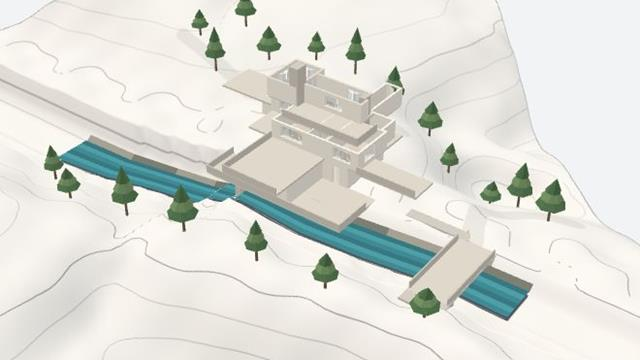
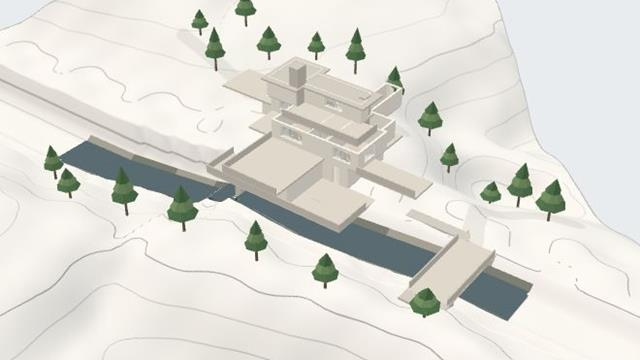
Add Fallingwater study roof and update example cover

diff --git a/mvp/index.html b/mvp/index.html
@@ -45,7 +45,7 @@
   </div>
 </header>
 <main id="app" tabindex="-1"></main>
-<script type="importmap">{"imports":{"./js/furn3d.js":"./js/furn3d.js?v=entourage-20261102-1","../furniture/models.js?v=furniture-detail-20261027-1":"../furniture/models.js?v=entourage-20261102-1","../furniture/geom.js?v=furniture-detail-20261027-1":"../furniture/geom.js?v=entourage-20261102-1","./js/fallingwater-dashboard.js":"./js/fallingwater-dashboard.js?v=case-terrain-20261103-2","./js/fallingwater-case.js":"./js/fallingwater-case.js?v=case-terrain-20261103-2","./js/fallingwater-results.js":"./js/fallingwater-results.js?v=case-terrain-20261103-2","./js/fallingwater-landscape.js":"./js/fallingwater-landscape.js?v=case-terrain-20261103-2","./js/fallingwater-dem.js":"./js/fallingwater-dem.js?v=case-terrain-20261103-2","./js/fallingwater-details.js":"./js/fallingwater-details.js?v=case-terrain-20261103-2","./js/usgs-terrain.js":"./js/usgs-terrain.js?v=case-terrain-20261103-2","./js/pages/projects-home.js":"./js/pages/projects-home.js?v=water-planning-20261103-1","./js/onboarding.js":"./js/onboarding.js?v=cmp-20261101-1","./js/pages/project.js":"./js/pages/project.js?v=cmp-20261101-1","./js/project-climate.js":"./js/project-climate.js?v=handoff-location-20261029-1","./js/pages/project-settings.js":"./js/pages/project-settings.js?v=handoff-20261028-1","./js/pages/project-map.js":"./js/pages/project-map.js?v=single-world-20261102-1","./js/pages/new-site.js":"./js/pages/new-site.js?v=epw-connected-20261027-3","./js/store.js":"./js/store.js?v=master-models-snow-20261031-3","./js/data.js":"./js/data.js?v=master-models-snow-20261031-3","./js/export3d.js":"./js/export3d.js?v=import-feedback-20261027-1","./js/viewport.js":"./js/viewport.js?v=light-only-20261028-1","./js/pages/workspace-v2.js":"./js/pages/workspace-v2.js?v=water-planning-20261103-1","./js/pages/start-study.js":"./js/pages/start-study.js?v=panel-scroll-20261026-1","./js/study-readiness.js":"./js/study-readiness.js?v=environment-20261028-1","./js/pages/comparison-report.js":"./js/pages/comparison-report.js?v=panel-scroll-20261026-1","./js/comparison-report.js":"./js/comparison-report.js?v=panel-scroll-20261026-1","./js/comparison-report-data.js":"./js/comparison-report-data.js?v=environment-20261028-1","./js/comparison-evidence.js":"./js/comparison-evidence.js?v=handoff-20261028-1","./js/pages/home.js":"./js/pages/home.js?v=light-only-20261028-1","./js/app.js":"./js/app.js?v=guest-start-20261102-1","./js/pages/simulations.js":"./js/pages/simulations.js?v=master-models-snow-20261031-5","./js/pages/environment-study.js":"./js/pages/environment-study.js?v=light-only-20261028-1","./js/pages/structure-study.js":"./js/pages/structure-study.js?v=handoff-20261028-1","./js/pages/sim-engine.js":"./js/pages/sim-engine.js?v=wsonly-20261101-6","./js/pages/admin.js":"./js/pages/admin.js?v=founder-20261102-1","./js/pages/pricing.js":"./js/pages/pricing.js?v=founder-20261102-1","./js/batch.js":"./js/batch.js?v=panel-scroll-20261026-1","./js/beta-access.js":"./js/beta-access.js?v=founder-20261102-1","./js/cloud.js":"./js/cloud.js?v=founder-20261102-1","./js/pages/results.js":"./js/pages/results.js?v=case-terrain-20261103-2","./js/pages/account.js":"./js/pages/account.js?v=public-launch-20261031-1","./js/pages/login.js":"./js/pages/login.js?v=public-launch-20261031-1","./js/pages/legal.js":"./js/pages/legal.js?v=public-launch-20261031-1","./js/pages/resources.js":"./js/pages/resources.js?v=free-res-20261101-1","./js/simulation-presentation.js":"./js/simulation-presentation.js?v=master-models-snow-20261031-3","./js/capabilities.js":"./js/capabilities.js?v=master-models-snow-20261031-3","./js/parameters.js":"./js/parameters.js?v=master-models-snow-20261031-3","./js/project-contract.js":"./js/project-contract.js?v=master-models-snow-20261031-3","./js/drift-wall.js":"./js/drift-wall.js?v=drift-compat-20261102-1","./js/workspace-chrome.js":"./js/workspace-chrome.js?v=case-terrain-20261103-2","./js/pages/dashboard.js":"./js/pages/dashboard.js?v=case-terrain-20261103-2","./js/pages/marketing-info.js":"./js/pages/marketing-info.js?v=founder-20261102-1","./js/pages/resource-tool.js":"./js/pages/resource-tool.js?v=resource-tools-20261031-1","./js/public-chrome.js":"./js/public-chrome.js?v=guest-start-20261102-1","./js/site-content.js":"./js/site-content.js?v=founder-20261102-1","./js/pages/founder.js":"./js/pages/founder.js?v=founder-20261102-1"}}</script>
+<script type="importmap">{"imports":{"./js/furn3d.js":"./js/furn3d.js?v=entourage-20261102-1","../furniture/models.js?v=furniture-detail-20261027-1":"../furniture/models.js?v=entourage-20261102-1","../furniture/geom.js?v=furniture-detail-20261027-1":"../furniture/geom.js?v=entourage-20261102-1","./js/fallingwater-dashboard.js":"./js/fallingwater-dashboard.js?v=case-roof-20261103-1","./js/fallingwater-case.js":"./js/fallingwater-case.js?v=case-roof-20261103-1","./js/fallingwater-results.js":"./js/fallingwater-results.js?v=case-roof-20261103-1","./js/fallingwater-landscape.js":"./js/fallingwater-landscape.js?v=case-terrain-20261103-2","./js/fallingwater-dem.js":"./js/fallingwater-dem.js?v=case-terrain-20261103-2","./js/fallingwater-details.js":"./js/fallingwater-details.js?v=case-roof-20261103-1","./js/usgs-terrain.js":"./js/usgs-terrain.js?v=case-terrain-20261103-2","./js/pages/projects-home.js":"./js/pages/projects-home.js?v=case-roof-20261103-1","./js/onboarding.js":"./js/onboarding.js?v=cmp-20261101-1","./js/pages/project.js":"./js/pages/project.js?v=cmp-20261101-1","./js/project-climate.js":"./js/project-climate.js?v=handoff-location-20261029-1","./js/pages/project-settings.js":"./js/pages/project-settings.js?v=handoff-20261028-1","./js/pages/project-map.js":"./js/pages/project-map.js?v=single-world-20261102-1","./js/pages/new-site.js":"./js/pages/new-site.js?v=epw-connected-20261027-3","./js/store.js":"./js/store.js?v=master-models-snow-20261031-3","./js/data.js":"./js/data.js?v=master-models-snow-20261031-3","./js/export3d.js":"./js/export3d.js?v=import-feedback-20261027-1","./js/viewport.js":"./js/viewport.js?v=light-only-20261028-1","./js/pages/workspace-v2.js":"./js/pages/workspace-v2.js?v=water-planning-20261103-1","./js/pages/start-study.js":"./js/pages/start-study.js?v=panel-scroll-20261026-1","./js/study-readiness.js":"./js/study-readiness.js?v=environment-20261028-1","./js/pages/comparison-report.js":"./js/pages/comparison-report.js?v=panel-scroll-20261026-1","./js/comparison-report.js":"./js/comparison-report.js?v=panel-scroll-20261026-1","./js/comparison-report-data.js":"./js/comparison-report-data.js?v=environment-20261028-1","./js/comparison-evidence.js":"./js/comparison-evidence.js?v=handoff-20261028-1","./js/pages/home.js":"./js/pages/home.js?v=light-only-20261028-1","./js/app.js":"./js/app.js?v=guest-start-20261102-1","./js/pages/simulations.js":"./js/pages/simulations.js?v=master-models-snow-20261031-5","./js/pages/environment-study.js":"./js/pages/environment-study.js?v=light-only-20261028-1","./js/pages/structure-study.js":"./js/pages/structure-study.js?v=handoff-20261028-1","./js/pages/sim-engine.js":"./js/pages/sim-engine.js?v=wsonly-20261101-6","./js/pages/admin.js":"./js/pages/admin.js?v=founder-20261102-1","./js/pages/pricing.js":"./js/pages/pricing.js?v=founder-20261102-1","./js/batch.js":"./js/batch.js?v=panel-scroll-20261026-1","./js/beta-access.js":"./js/beta-access.js?v=founder-20261102-1","./js/cloud.js":"./js/cloud.js?v=founder-20261102-1","./js/pages/results.js":"./js/pages/results.js?v=case-terrain-20261103-2","./js/pages/account.js":"./js/pages/account.js?v=public-launch-20261031-1","./js/pages/login.js":"./js/pages/login.js?v=public-launch-20261031-1","./js/pages/legal.js":"./js/pages/legal.js?v=public-launch-20261031-1","./js/pages/resources.js":"./js/pages/resources.js?v=free-res-20261101-1","./js/simulation-presentation.js":"./js/simulation-presentation.js?v=master-models-snow-20261031-3","./js/capabilities.js":"./js/capabilities.js?v=master-models-snow-20261031-3","./js/parameters.js":"./js/parameters.js?v=master-models-snow-20261031-3","./js/project-contract.js":"./js/project-contract.js?v=master-models-snow-20261031-3","./js/drift-wall.js":"./js/drift-wall.js?v=drift-compat-20261102-1","./js/workspace-chrome.js":"./js/workspace-chrome.js?v=case-terrain-20261103-2","./js/pages/dashboard.js":"./js/pages/dashboard.js?v=case-terrain-20261103-2","./js/pages/marketing-info.js":"./js/pages/marketing-info.js?v=founder-20261102-1","./js/pages/resource-tool.js":"./js/pages/resource-tool.js?v=resource-tools-20261031-1","./js/public-chrome.js":"./js/public-chrome.js?v=guest-start-20261102-1","./js/site-content.js":"./js/site-content.js?v=founder-20261102-1","./js/pages/founder.js":"./js/pages/founder.js?v=founder-20261102-1"}}</script>
 <script type="module">import "./js/app.js";</script>
 <script type="module" src="../ui/laptop-layout.js?v=study-unified-20261028-1"></script>
 <link rel="stylesheet" href="css/resources.css?v=resource-tools-20261031-1">

diff --git a/mvp/js/pages/projects-home.js b/mvp/js/pages/projects-home.js
@@ -127,7 +127,7 @@ export function render(app, [section], params) {
           for (const b of $$('[data-hit]', hits)) b.onclick = async () => { hits.hidden = true; try { const r = await resolve(rows[+b.dataset.hit]); inp.value = r.title; mapObj.setView([r.lat, r.lon], 13); } catch (e) { toast(e.message); } }; }, 250); };
         inp.onkeydown = (e) => { if (e.key === 'Enter') { e.preventDefault(); hits.querySelector('[data-hit]')?.click(); } if (e.key === 'Escape') hits.hidden = true; };
       }); }
-    else body.innerHTML = `<div class="ph-grid">${where === 'mine' && !tag ? `<a class="ph-new" href="#/new-project"><b>+</b>Add new project</a>${!q||"fallingwater example".includes(q)?`<article class="ph-card ph-example"><button type="button" class="ph-thumb" data-fallingwater aria-label="Open Fallingwater example"><img src="img/fallingwater-cover.jpg" alt=""><span>Example</span></button><div class="ph-meta"><b>Fallingwater</b></div><div class="ph-dates">Site, architecture and interiors</div><button type="button" class="ph-example-results" data-fallingwater="results">View saved results</button></article>`:""}` : ''}${L.map(card).join('')}</div>${L.length || where === 'mine' ? '' : `<p class="ph-empty">${where === 'deleted' ? 'Nothing deleted. Deleted projects stay here until you remove them permanently.' : 'No favorites yet: use the star on a project.'}</p>`}`;
+    else body.innerHTML = `<div class="ph-grid">${where === 'mine' && !tag ? `<a class="ph-new" href="#/new-project"><b>+</b>Add new project</a>${!q||"fallingwater example".includes(q)?`<article class="ph-card ph-example"><button type="button" class="ph-thumb" data-fallingwater aria-label="Open Fallingwater example"><img src="img/fallingwater-cover.jpg?v=roof-1" alt=""><span>Example</span></button><div class="ph-meta"><b>Fallingwater</b></div><div class="ph-dates">Site, architecture and interiors</div><button type="button" class="ph-example-results" data-fallingwater="results">View saved results</button></article>`:""}` : ''}${L.map(card).join('')}</div>${L.length || where === 'mine' ? '' : `<p class="ph-empty">${where === 'deleted' ? 'Nothing deleted. Deleted projects stay here until you remove them permanently.' : 'No favorites yet: use the star on a project.'}</p>`}`;
     bind();
   }
   function bind() {

diff --git a/mvp/js/fallingwater-results.js b/mvp/js/fallingwater-results.js
@@ -1,9 +1,9 @@
 // Generated by tools/build-fallingwater-results.mjs.
 export default {
-  "generated": "2026-11-04T02:22:53.197Z",
+  "generated": "2026-11-04T02:52:33.461Z",
   "engine": "Plan Studio pressure-network airflow and CIE overcast daylight factor",
[3 lines of base64/hex data omitted]
   "conditions": {
     "windFromDeg": 225,
     "windSpeedAt10m": 2.5,
@@ -17,7 +17,7 @@ export default {
   "runs": [
     {
       "open": 0.05,
[2 lines of base64/hex data omitted]
       "airflow": 1430.827,
       "ach": 9.663,
       "daylightFactor": 2.621,
@@ -106,7 +106,7 @@ export default {
     },
     {
       "open": 0.15,
[2 lines of base64/hex data omitted]
       "airflow": 3804.724,
       "ach": 25.694,
       "daylightFactor": 2.621,

diff --git a/mvp/js/fallingwater-dashboard.js b/mvp/js/fallingwater-dashboard.js
@@ -8,9 +8,9 @@ export const caseCard=()=>`<section class="pc-case" aria-labelledby="fallingwate
 
 export function openCase(){
  try{const key='pc-mvp-ws2',ui=JSON.parse(localStorage.getItem(key)||'{}');localStorage.setItem(key,JSON.stringify({...ui,view:'persp'}));}catch{} 
- let p=S.projects().find(p=>p.caseStudy?.id==='fallingwater-habs-detailed-v2'&&!p.deletedAt);
+ let p=S.projects().find(p=>p.caseStudy?.id==='fallingwater-habs-roof-v3'&&!p.deletedAt);
  if(p)return p;
- p=S.createProject(title + " (detailed)",caseModel());
+ p=S.createProject(title + " (roofed example)",caseModel());
  p.site=S.clone(site);p.siteLinked=false;p.caseStudy={id:'fallingwater-habs-detailed-v2',source,generated:evidence.generated,engine:evidence.engine,engineHash:evidence.engineHash,modelHash:evidence.modelHash};
  S.updateConditions(p,site,p.sharedConditions.defaults,{keepRevision:true});
  for(const r of evidence.runs){

diff --git a/mvp/js/fallingwater-details.js b/mvp/js/fallingwater-details.js
@@ -22,6 +22,10 @@ export function details(xy){
  steps('Stair to bedroom level',485,311,0,2.55,3.1,15,.95);
  steps('Stair to study level',402,291,2.55,2.17,2.55,13,.92);
  steps('Stair down to Bear Run',495,539,-2.62,2.62,2.7,15,1.12);
+ // Stepped flat roof over the study and gallery, with a thin projecting concrete fascia.
+ const roof=(x,y,x2,y2,z,h)=>{const [a,b]=xy(x,y),[c,d]=xy(x2,y2);box('Study and gallery roof','Roof',(a+c)/2,(b+d)/2,z,c-a,b-d,h);};
+ roof(234,215,336,345,6.70,.19);
+ roof(336,241,500,320,6.70,.19);
  const imports=[],meshes={};
  for(const [name,{layer,p}] of Object.entries(groups)){
   const id='habs-detail-'+imports.length,min=[Infinity,Infinity,Infinity],max=[-Infinity,-Infinity,-Infinity];
